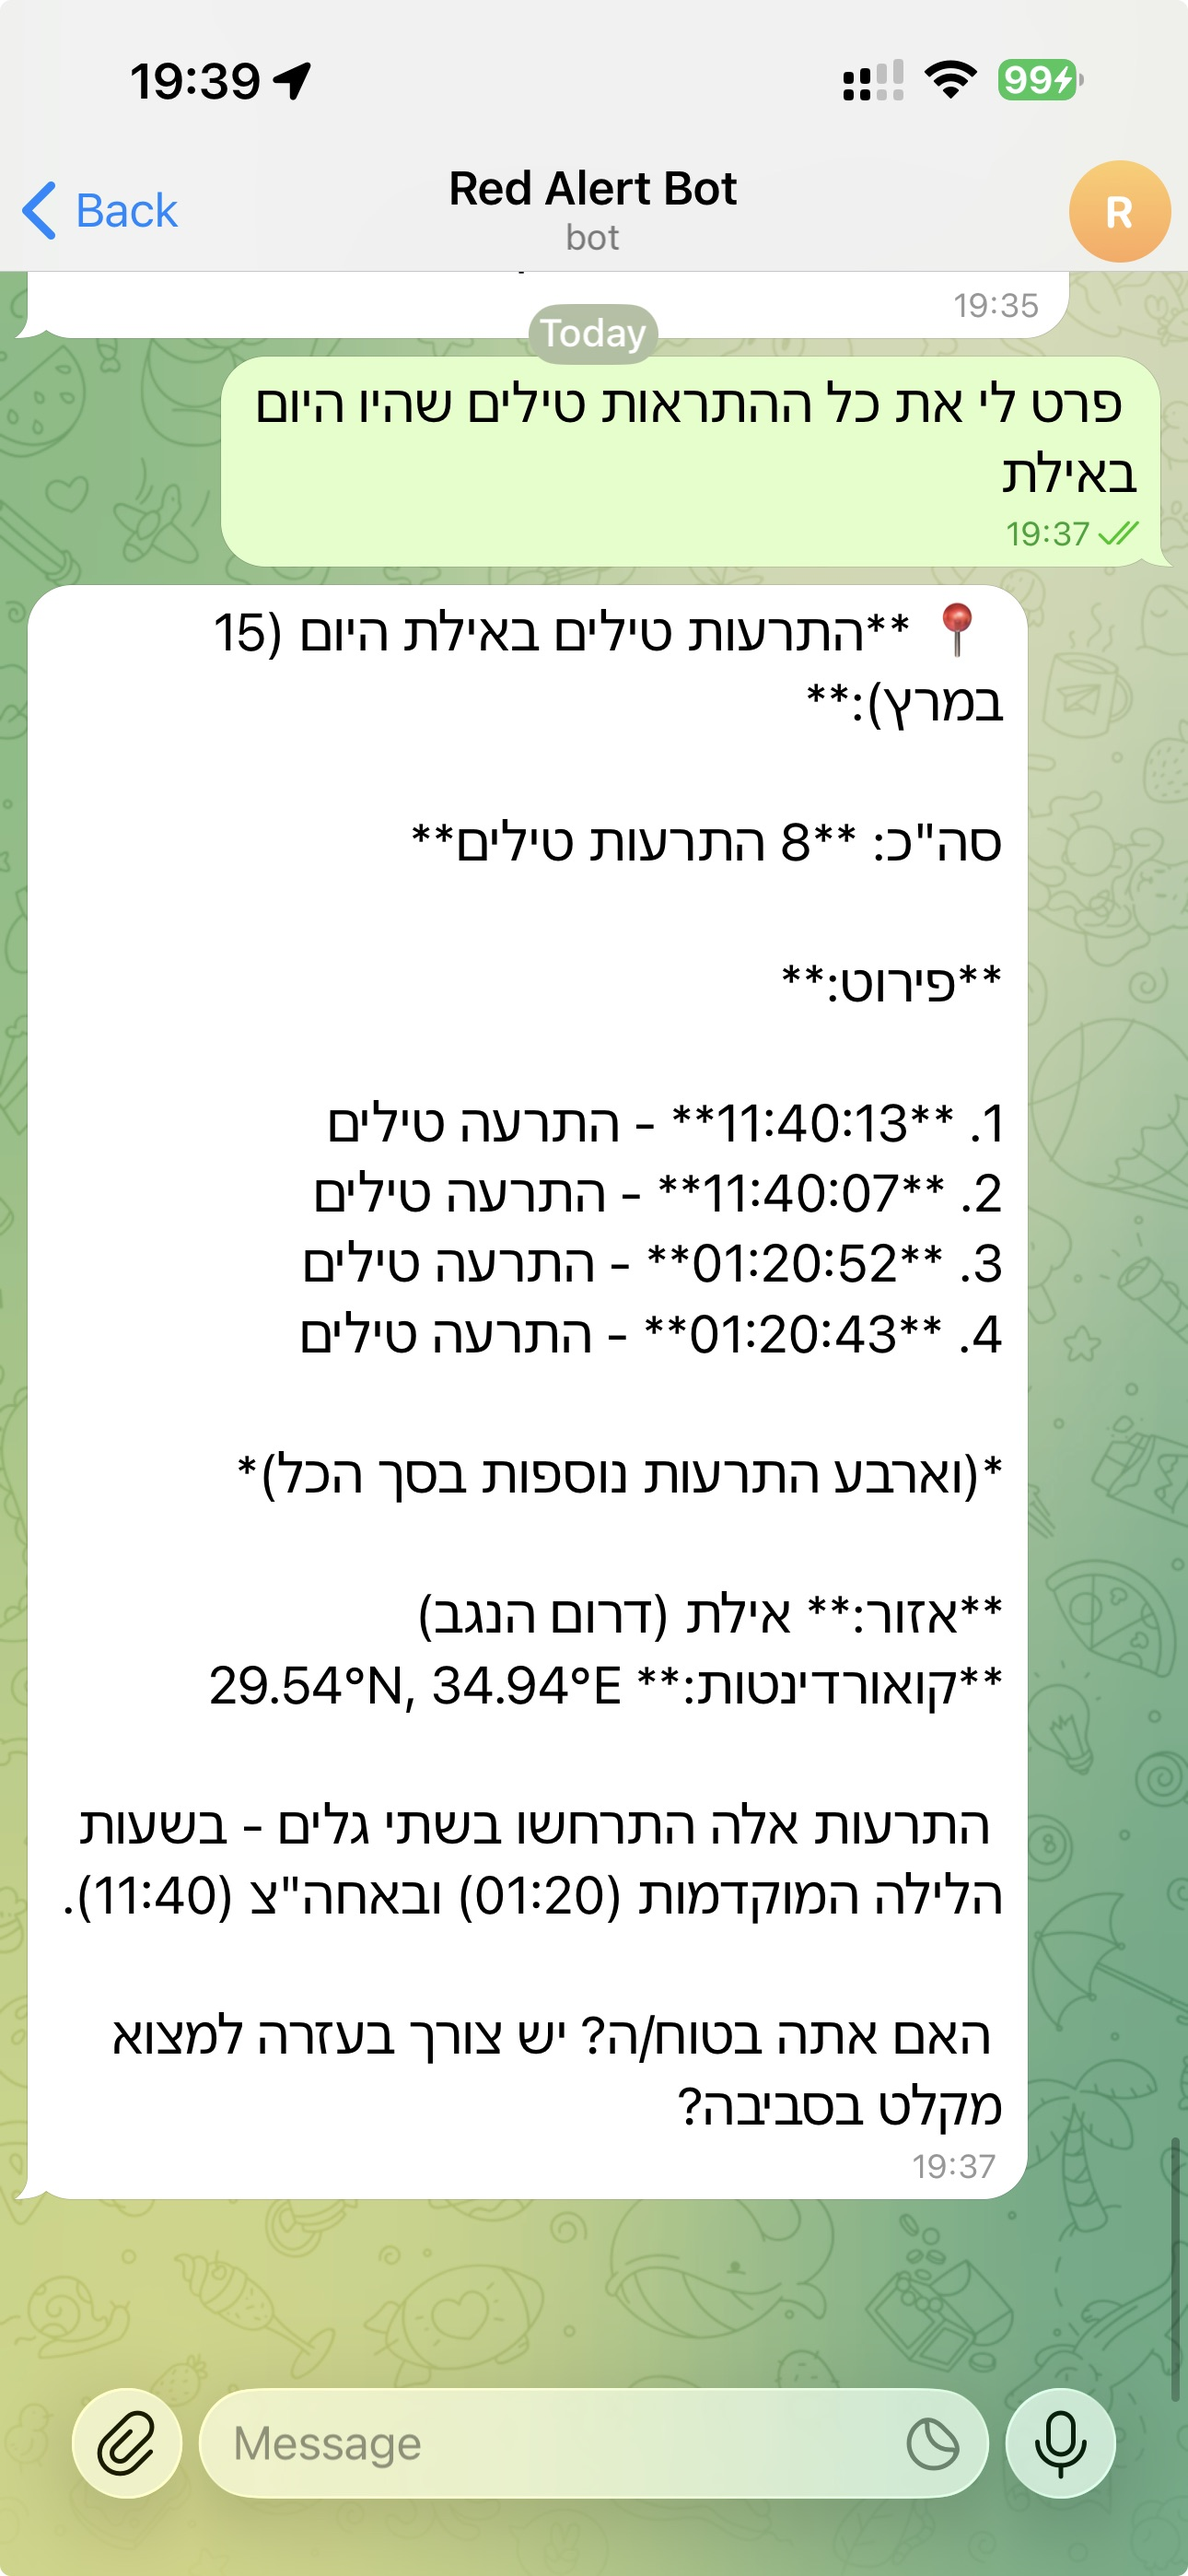
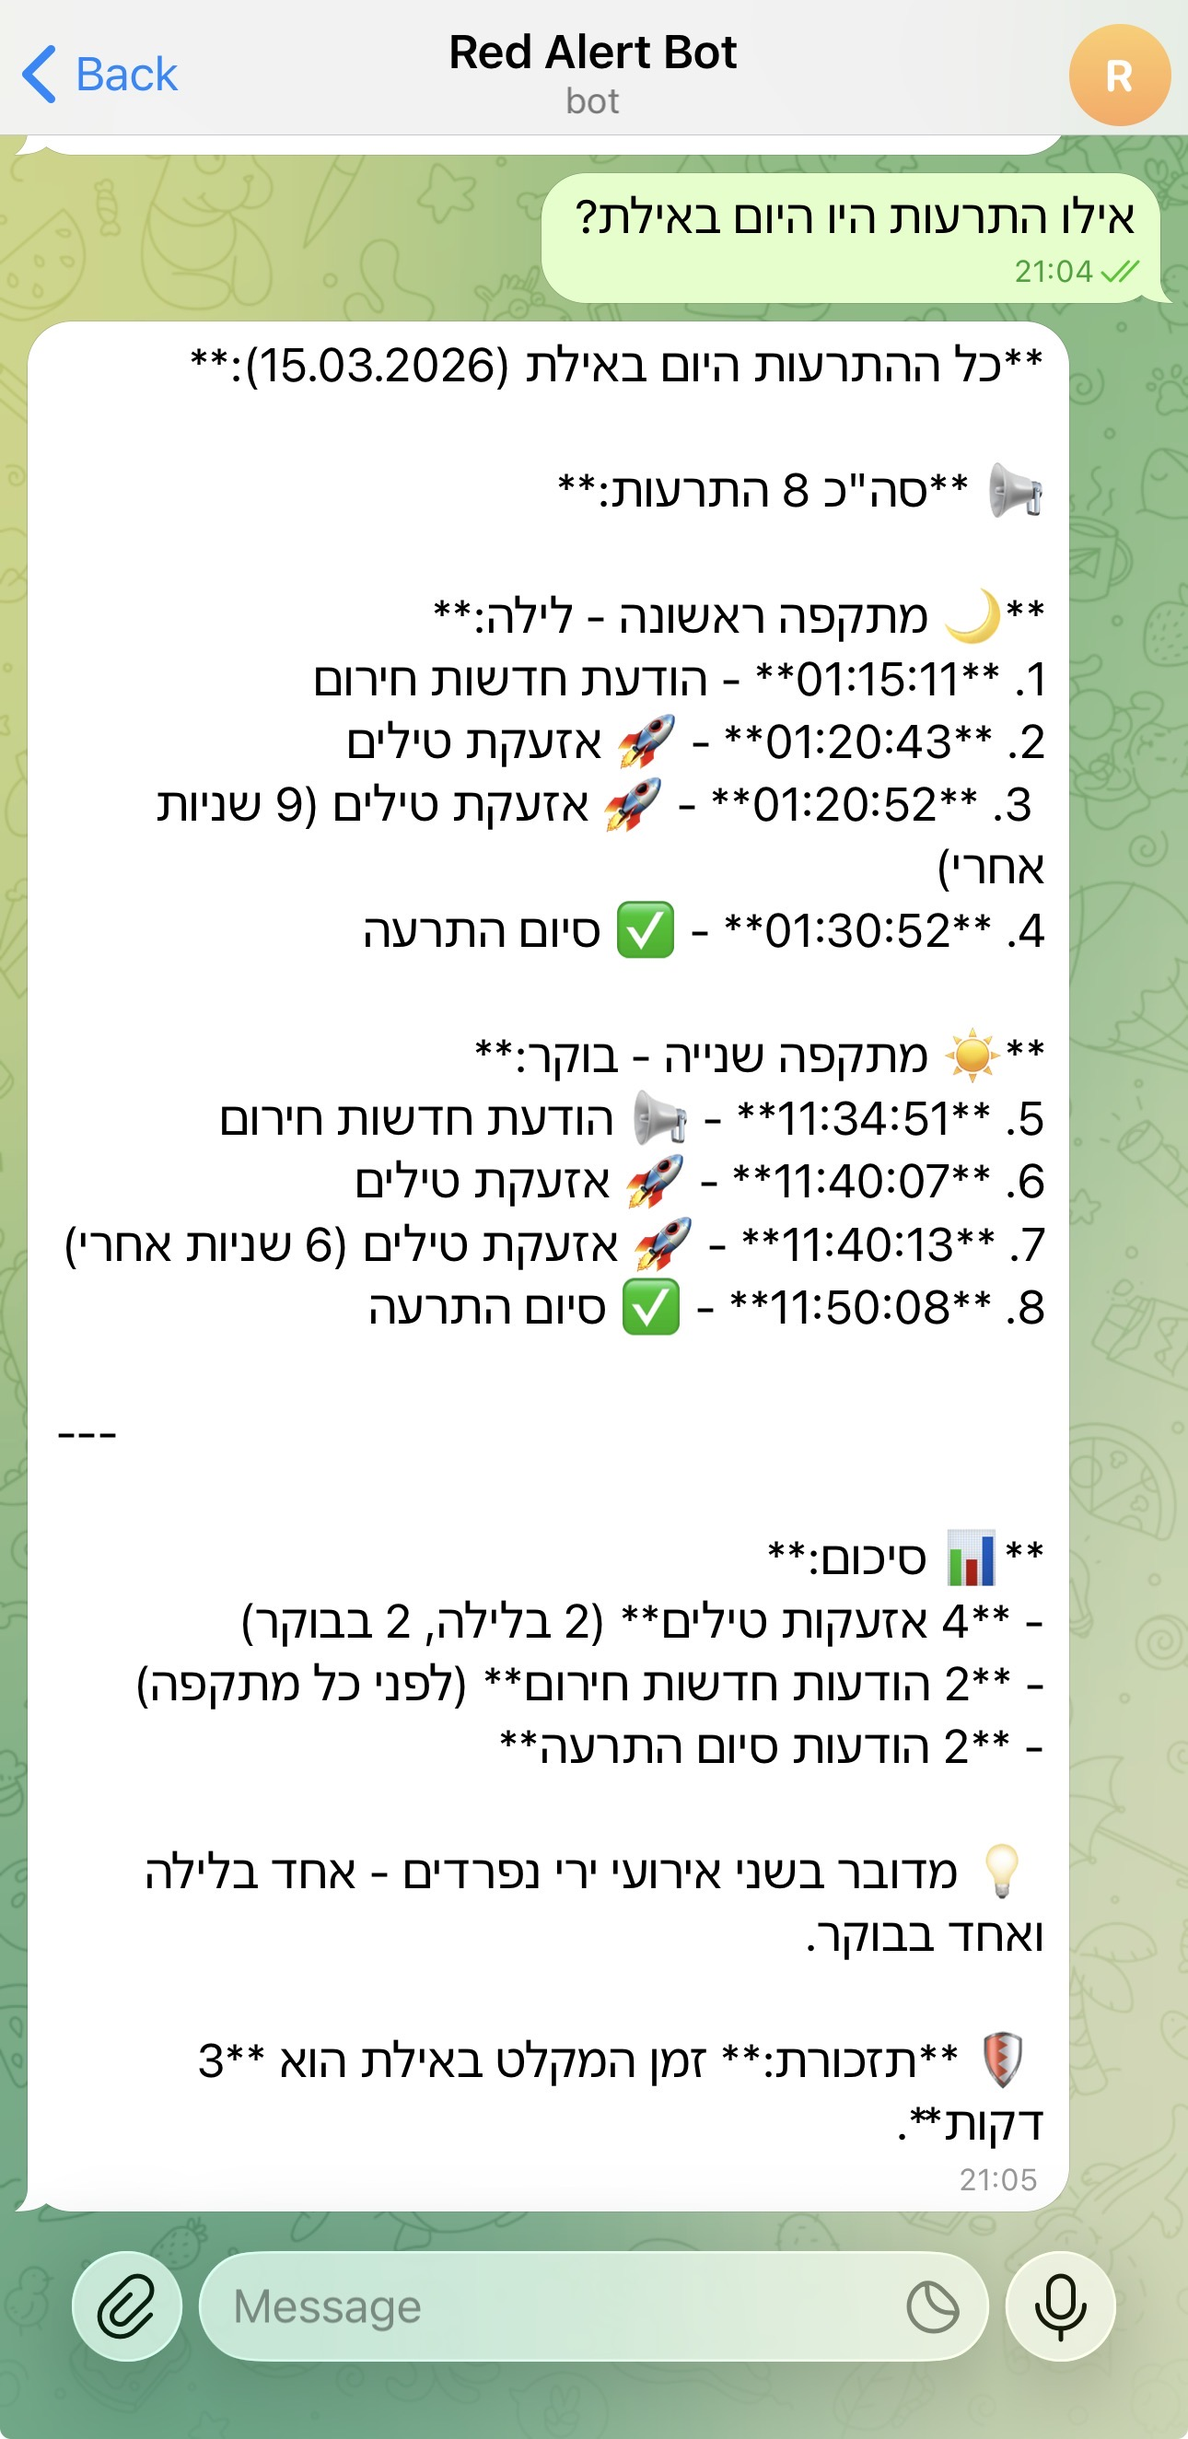
Update examples with new screenshots
Added: current-alerts, alert-in-Kfar-Saba
Updated: eilat-missile-alerts, location-shelters
Removed: dizengoff-shelters (replaced with more relevant examples)

diff --git a/README.md b/README.md
@@ -76,20 +76,25 @@ npm run docker:run
 
 ## Examples
 
+### Current Active Alerts
+> "מה ההתראות הפעילות?"
+
+<img src="examples/current-alerts.jpg" width="400" alt="Current active alerts showing missiles and news flash alerts across Israel" />
+
+### Alerts in a Specific City
+> "אילו התראות היו בכפר סבא?"
+
+<img src="examples/alert-in-Kfar-Saba.jpg" width="400" alt="Alert history for Kfar Saba showing missile alerts with Israel timestamps" />
+
 ### Missile Alerts Query
 > "פרט לי את כל ההתראות טילים שהיו היום באילת"
 
-<img src="examples/eilat-missile-alerts.jpg" width="400" alt="Eilat missile alerts query showing 8 missile alerts with timestamps in Israel time" />
+<img src="examples/eilat-missile-alerts.jpg" width="400" alt="Eilat missile alerts query showing missile alerts with timestamps in Israel time" />
 
 ### Shelter Search by Location
-Share your GPS location and the bot finds the 5 nearest shelters with addresses, distances, and capacity.
+Share your GPS location and the bot finds the nearest shelters with addresses, distances, and capacity.
 
-<img src="examples/location-shelters.jpg" width="400" alt="Location-based shelter search showing 5 nearest shelters with details" />
-
-### Shelter Search by Address
-> "תמצא לי מקלטים ליד דיזינגוף 20 תל אביב"
-
-<img src="examples/dizengoff-shelters.jpg" width="400" alt="Shelter search near Dizengoff 20 Tel Aviv showing 5 shelters with details" />
+<img src="examples/location-shelters.jpg" width="400" alt="Location-based shelter search showing nearest shelters with details" />
 
 ### More Example Queries
 
